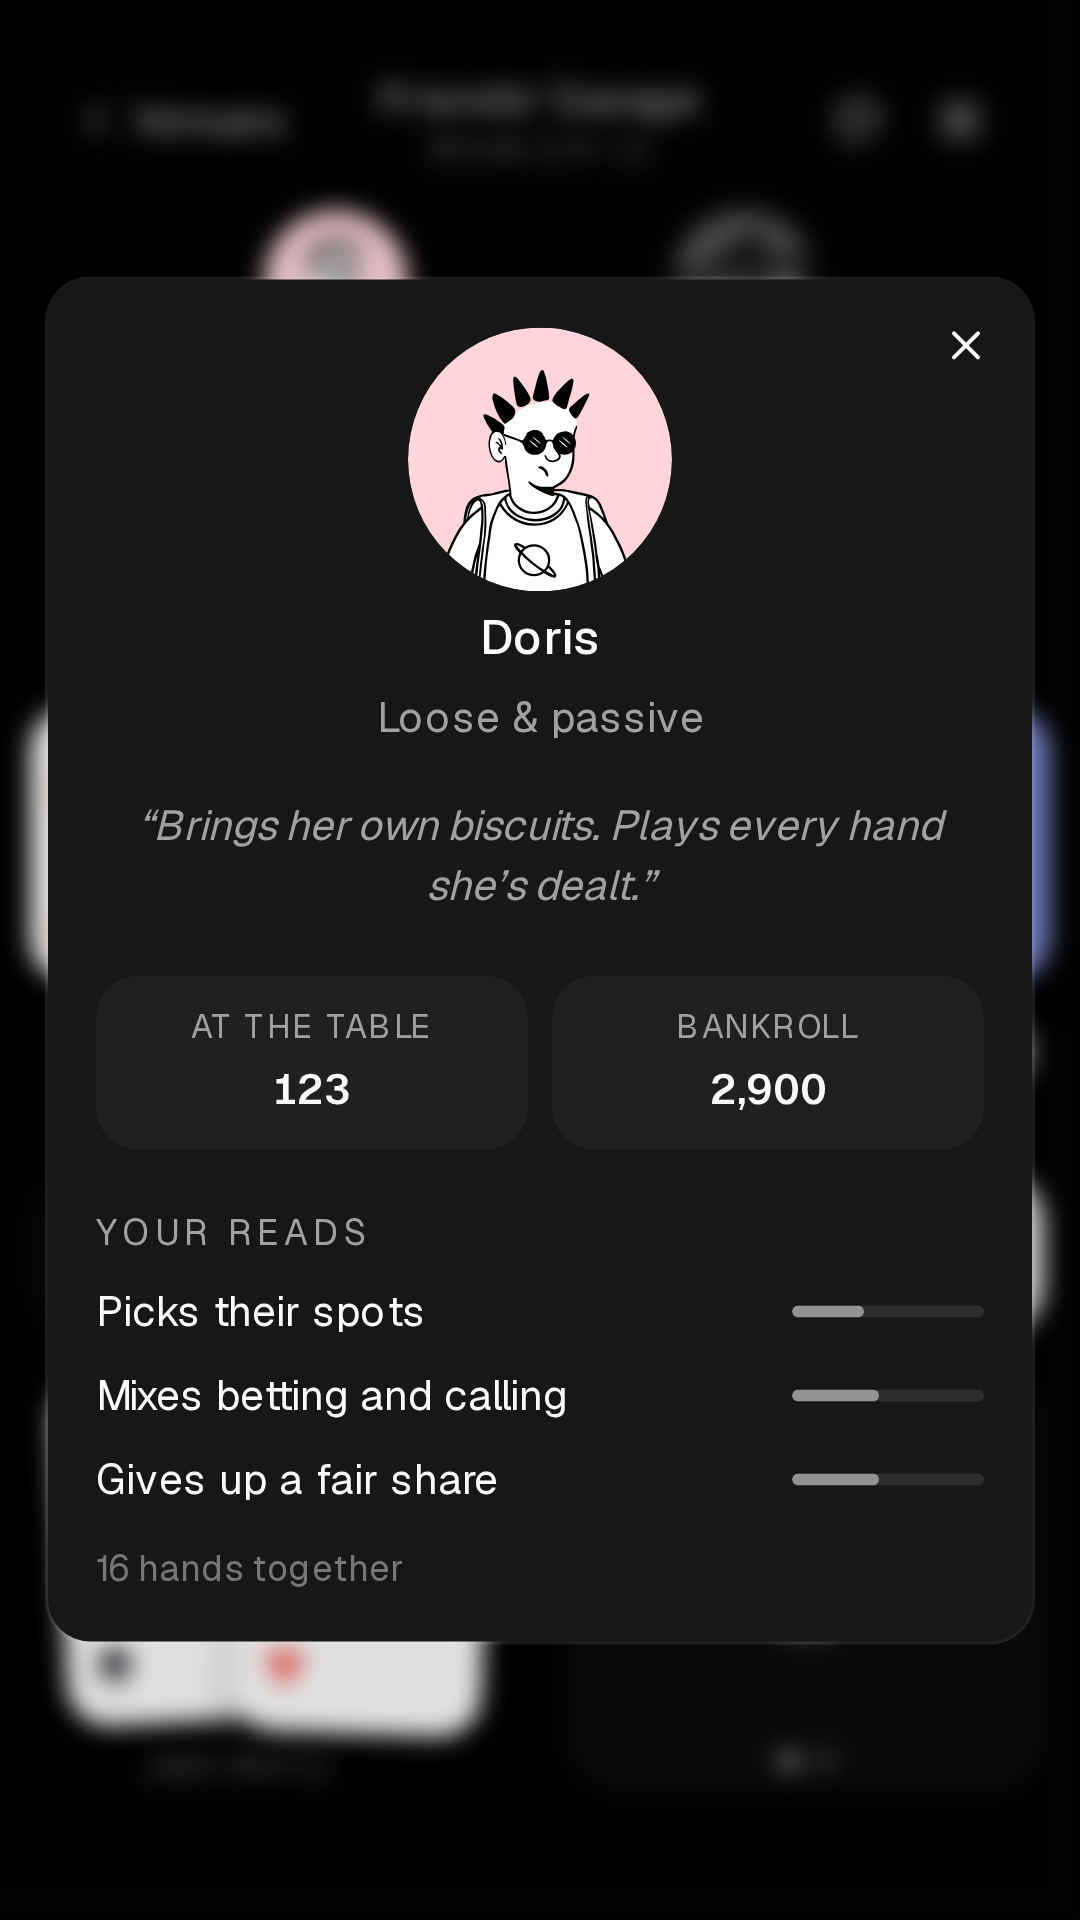
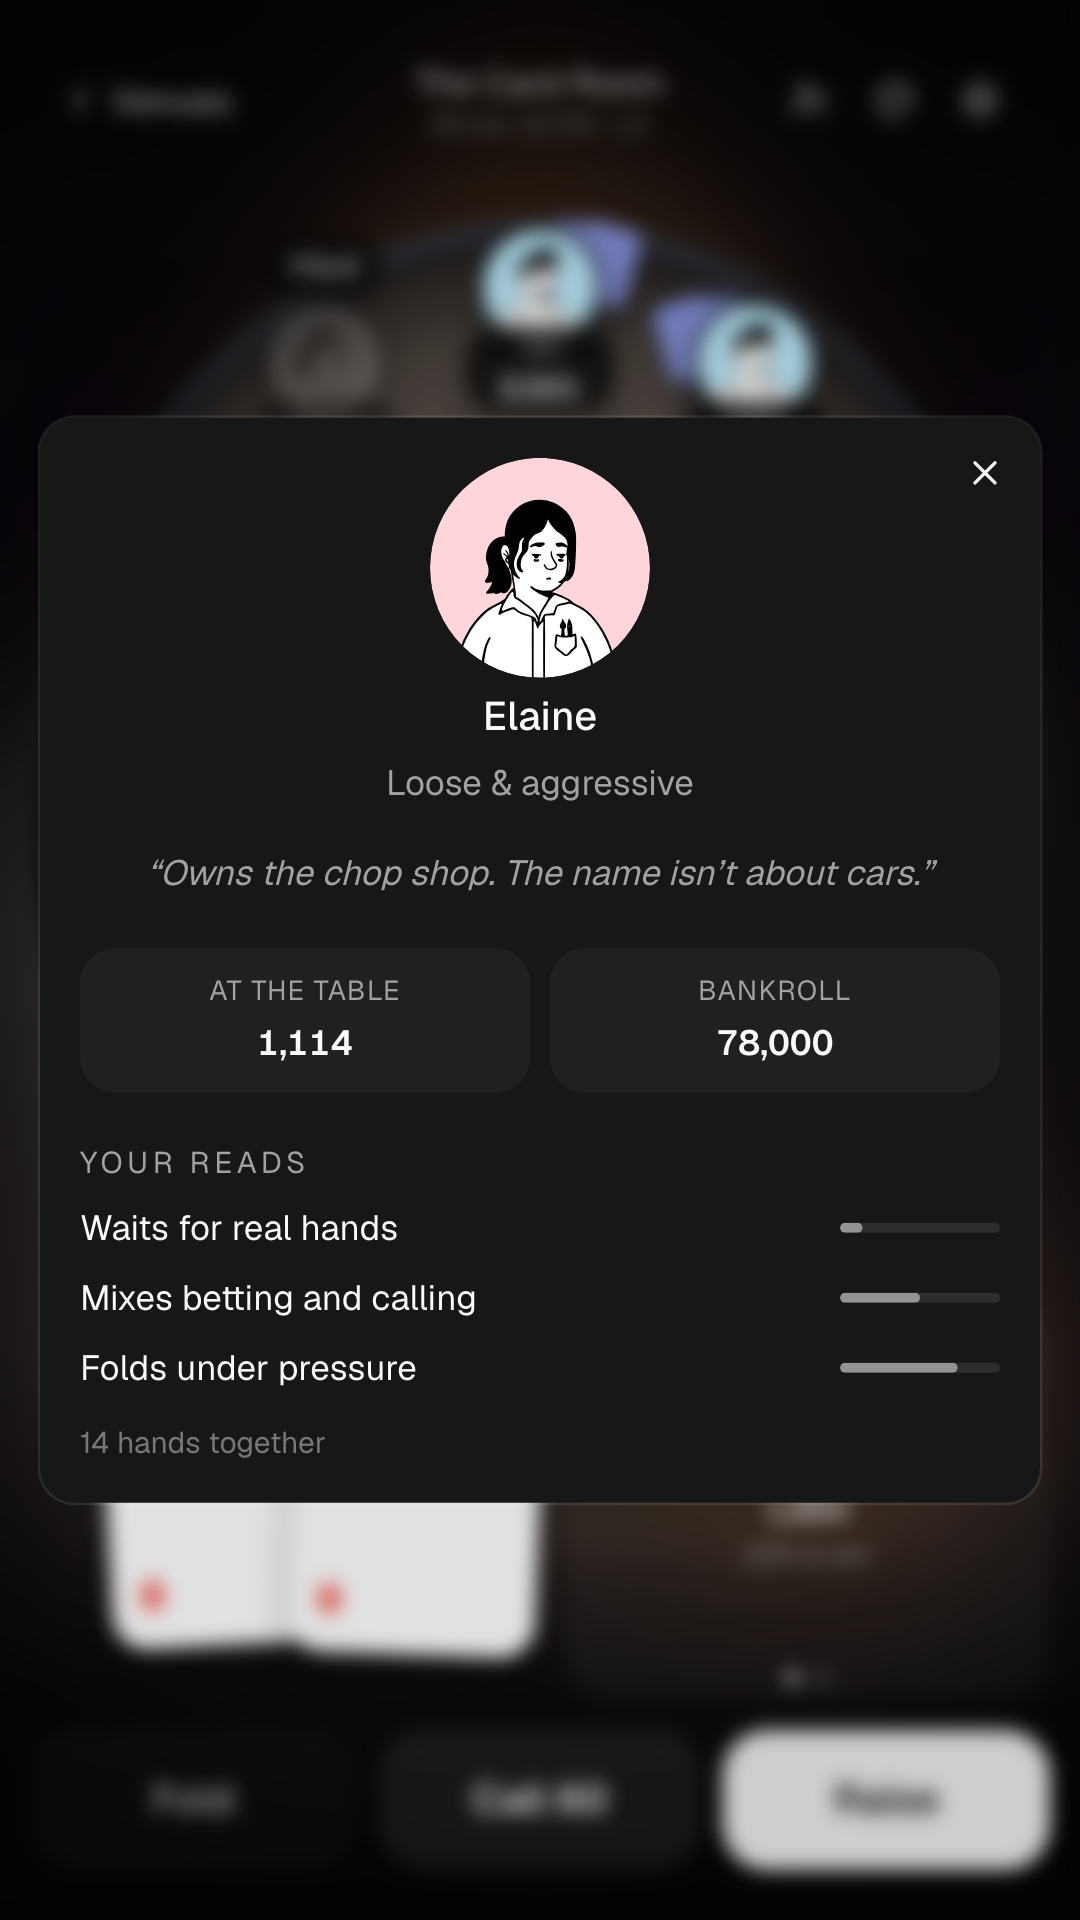
assets(pwa): reshoot the eight install screenshots for the redesigned table
Phone shots at 432x768 CSS @2.5x (the oval table collides at 360 wide), desktop at 1280x720 @1.5x. Labels rewritten to match what each shot now shows.

diff --git a/src/app/manifest.ts b/src/app/manifest.ts
@@ -21,7 +21,7 @@ const SCREENSHOTS: MetadataRoute.Manifest['screenshots'] = [
     type: 'image/png',
     form_factor: 'narrow',
     label:
-      "A hand in progress: four community cards face up, the player's two hole cards, a pot of 8 chips, and Fold, Check and Bet buttons.",
+      "A hand in progress at The Pub: four community cards face up, the player's two hole cards at 92% to win, and Fold, Check and Bet buttons.",
   },
   {
     src: '/screenshots/phone-2-opponent.png',
@@ -29,7 +29,7 @@ const SCREENSHOTS: MetadataRoute.Manifest['screenshots'] = [
     type: 'image/png',
     form_factor: 'narrow',
     label:
-      "An opponent's profile: Doris, loose and passive, with three read bars and a note that you have played sixteen hands together.",
+      "An opponent's profile: Elaine, loose and aggressive, with her chips, her bankroll, three read bars and a note that you have played fourteen hands together.",
   },
   {
     src: '/screenshots/phone-3-venues.png',
@@ -37,7 +37,7 @@ const SCREENSHOTS: MetadataRoute.Manifest['screenshots'] = [
     type: 'image/png',
     form_factor: 'narrow',
     label:
-      'The venue ladder: rooms as illustrated cards, the first one open and the rest showing the Roll needed to enter.',
+      'The venue ladder: rooms as illustrated cards, each showing its buy-in and what it pays to win.',
   },
   {
     src: '/screenshots/phone-4-home.png',
@@ -45,7 +45,7 @@ const SCREENSHOTS: MetadataRoute.Manifest['screenshots'] = [
     type: 'image/png',
     form_factor: 'narrow',
     label:
-      'The home screen: a Roll of 100 chips, the shop, the learn guides, and tiles for the Daily and the cash tables.',
+      'The home screen: a Roll of 18,420 chips, the next venue on the ladder, a cash table, and progress up the ladder.',
   },
   {
     src: '/screenshots/phone-5-cash.png',
@@ -53,7 +53,7 @@ const SCREENSHOTS: MetadataRoute.Manifest['screenshots'] = [
     type: 'image/png',
     form_factor: 'narrow',
     label:
-      'The cash tables: four stakes from 1/2 to 30/60, each showing table size, stack depth and the Roll needed.',
+      'The Rail: cash tables by stake, from 1/2 up, each showing table size, stack depth and the chips to sit down.',
   },
   {
     src: '/screenshots/desktop-1-table.png',
@@ -61,7 +61,7 @@ const SCREENSHOTS: MetadataRoute.Manifest['screenshots'] = [
     type: 'image/png',
     form_factor: 'wide',
     label:
-      "A hand in progress: four community cards face up, the player's two hole cards, a pot of 8 chips, and Fold, Check and Bet buttons.",
+      'A hand in progress at The Card Room: four community cards face up, a pot of 4,781 chips, an opponent all in, and Fold, Call and Raise buttons.',
   },
   {
     src: '/screenshots/desktop-2-opponent.png',
@@ -69,7 +69,7 @@ const SCREENSHOTS: MetadataRoute.Manifest['screenshots'] = [
     type: 'image/png',
     form_factor: 'wide',
     label:
-      "An opponent's profile: Doris, loose and passive, with three read bars and a note that you have played sixteen hands together.",
+      "An opponent's profile: Rosa, loose and passive, with her chips, her bankroll, three read bars and a note that you have played fourteen hands together.",
   },
   {
     src: '/screenshots/desktop-3-venues.png',
@@ -77,7 +77,7 @@ const SCREENSHOTS: MetadataRoute.Manifest['screenshots'] = [
     type: 'image/png',
     form_factor: 'wide',
     label:
-      "The venue ladder on a wide screen: all ten rooms as illustrated cards, from Friends' Garage to the Main Event.",
+      "The venue ladder on a wide screen: eight of the ten rooms as illustrated cards, from Friends' Garage to Monte Carlo.",
   },
 ]
 
